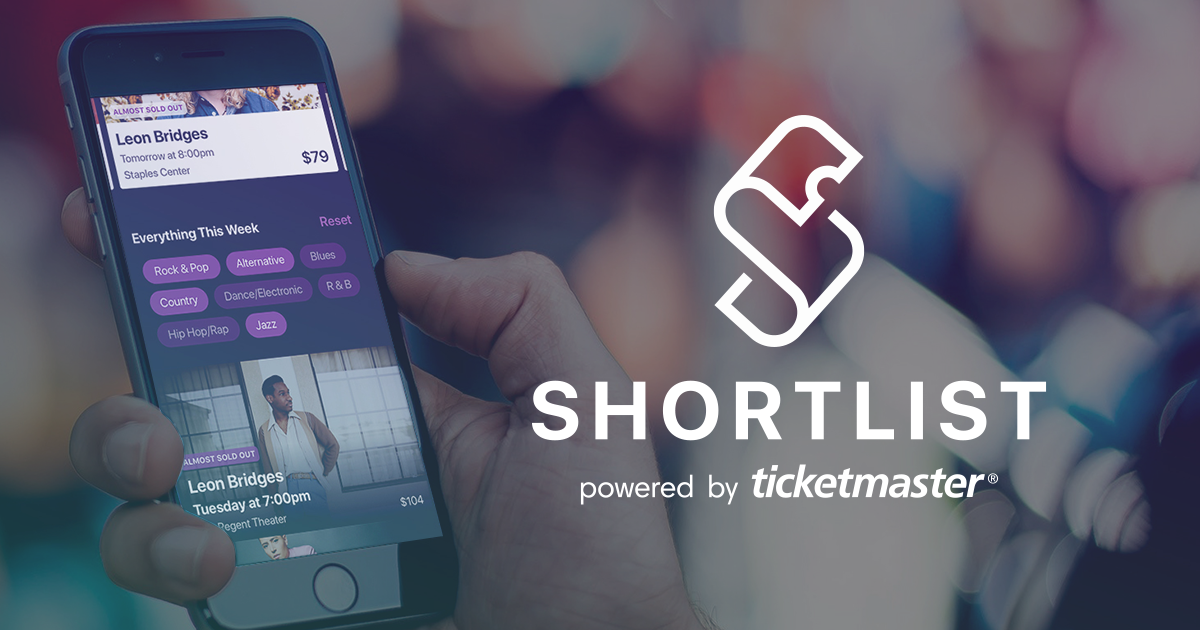
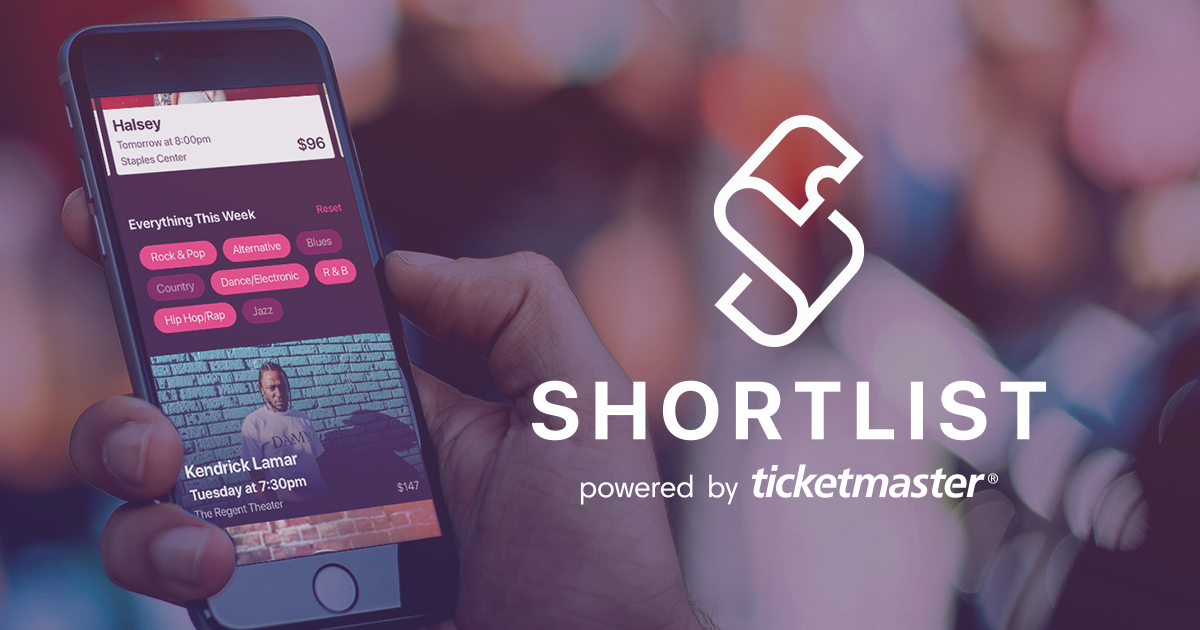
Update Shortlist images

diff --git a/_products/shortlist.md b/_products/shortlist.md
@@ -14,7 +14,7 @@ twitter-image: /assets/images/shortlist-open-twitter-large.png
 
 bg-image: shortlistBackground.jpg
 bg-image-interest: right
-detail-overlay: ui_element-small.png
+detail-overlay: ui_element.png
 
 icon: ic_shortlist_dark_filled.svg
 nav-icon: ic_shortlist_light.svg
